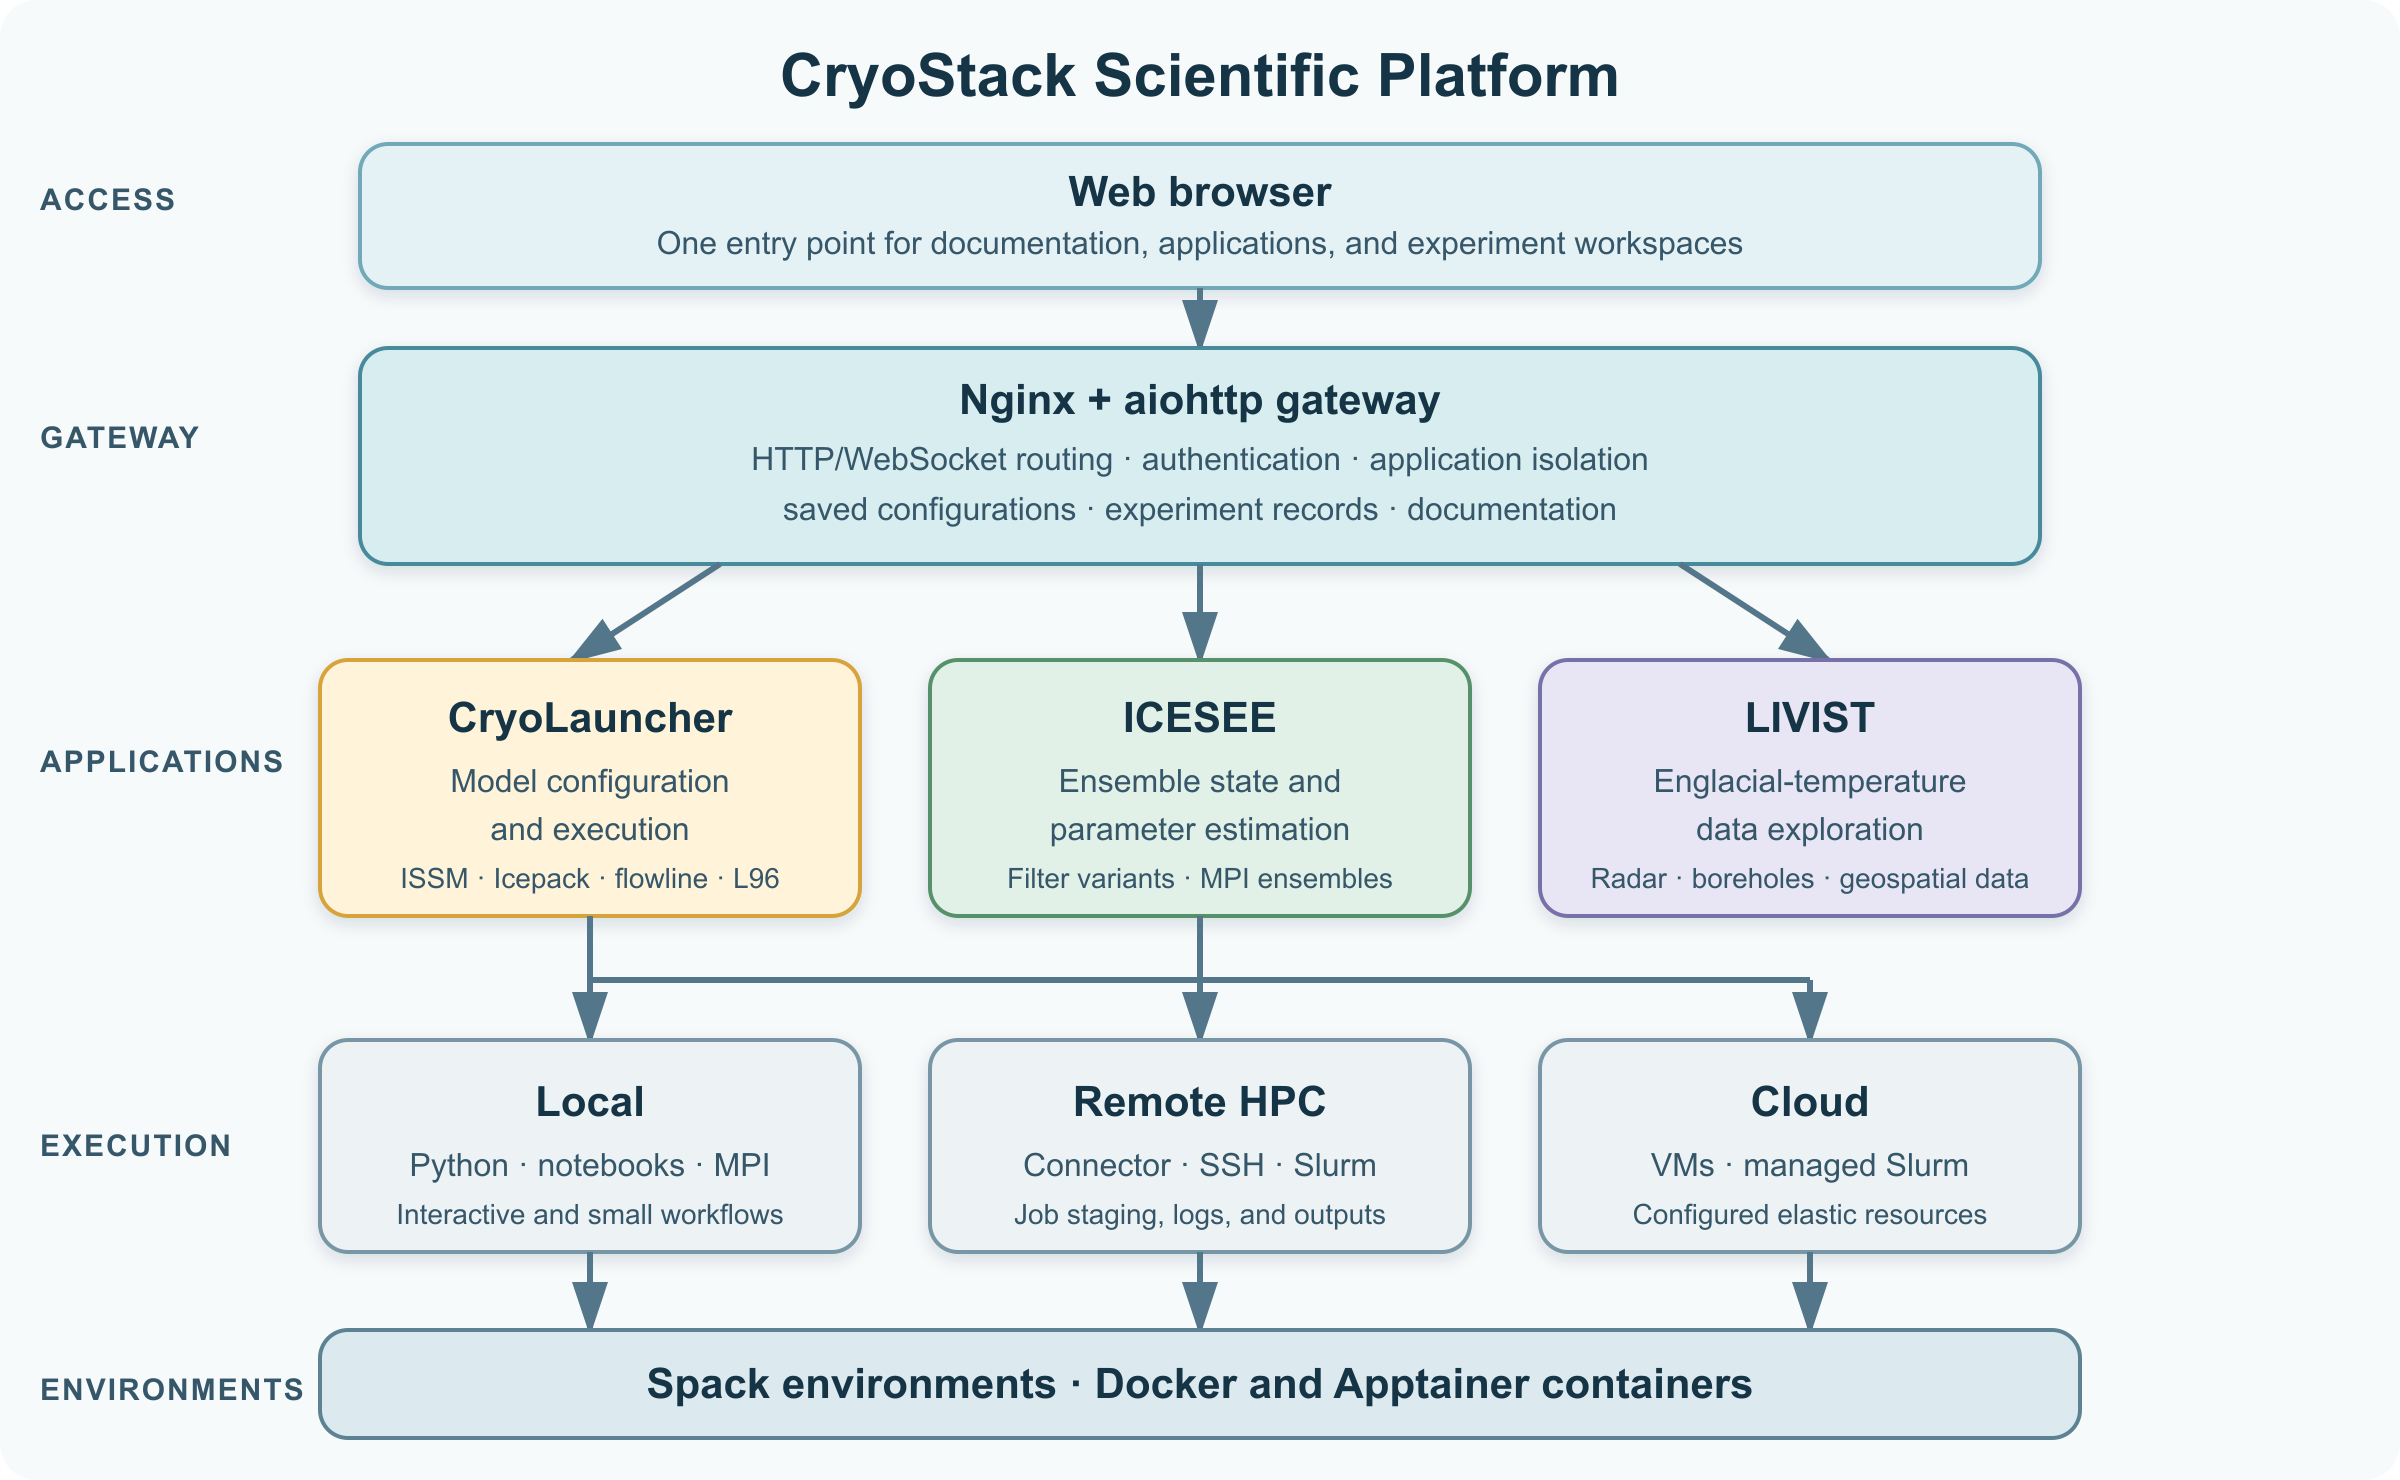
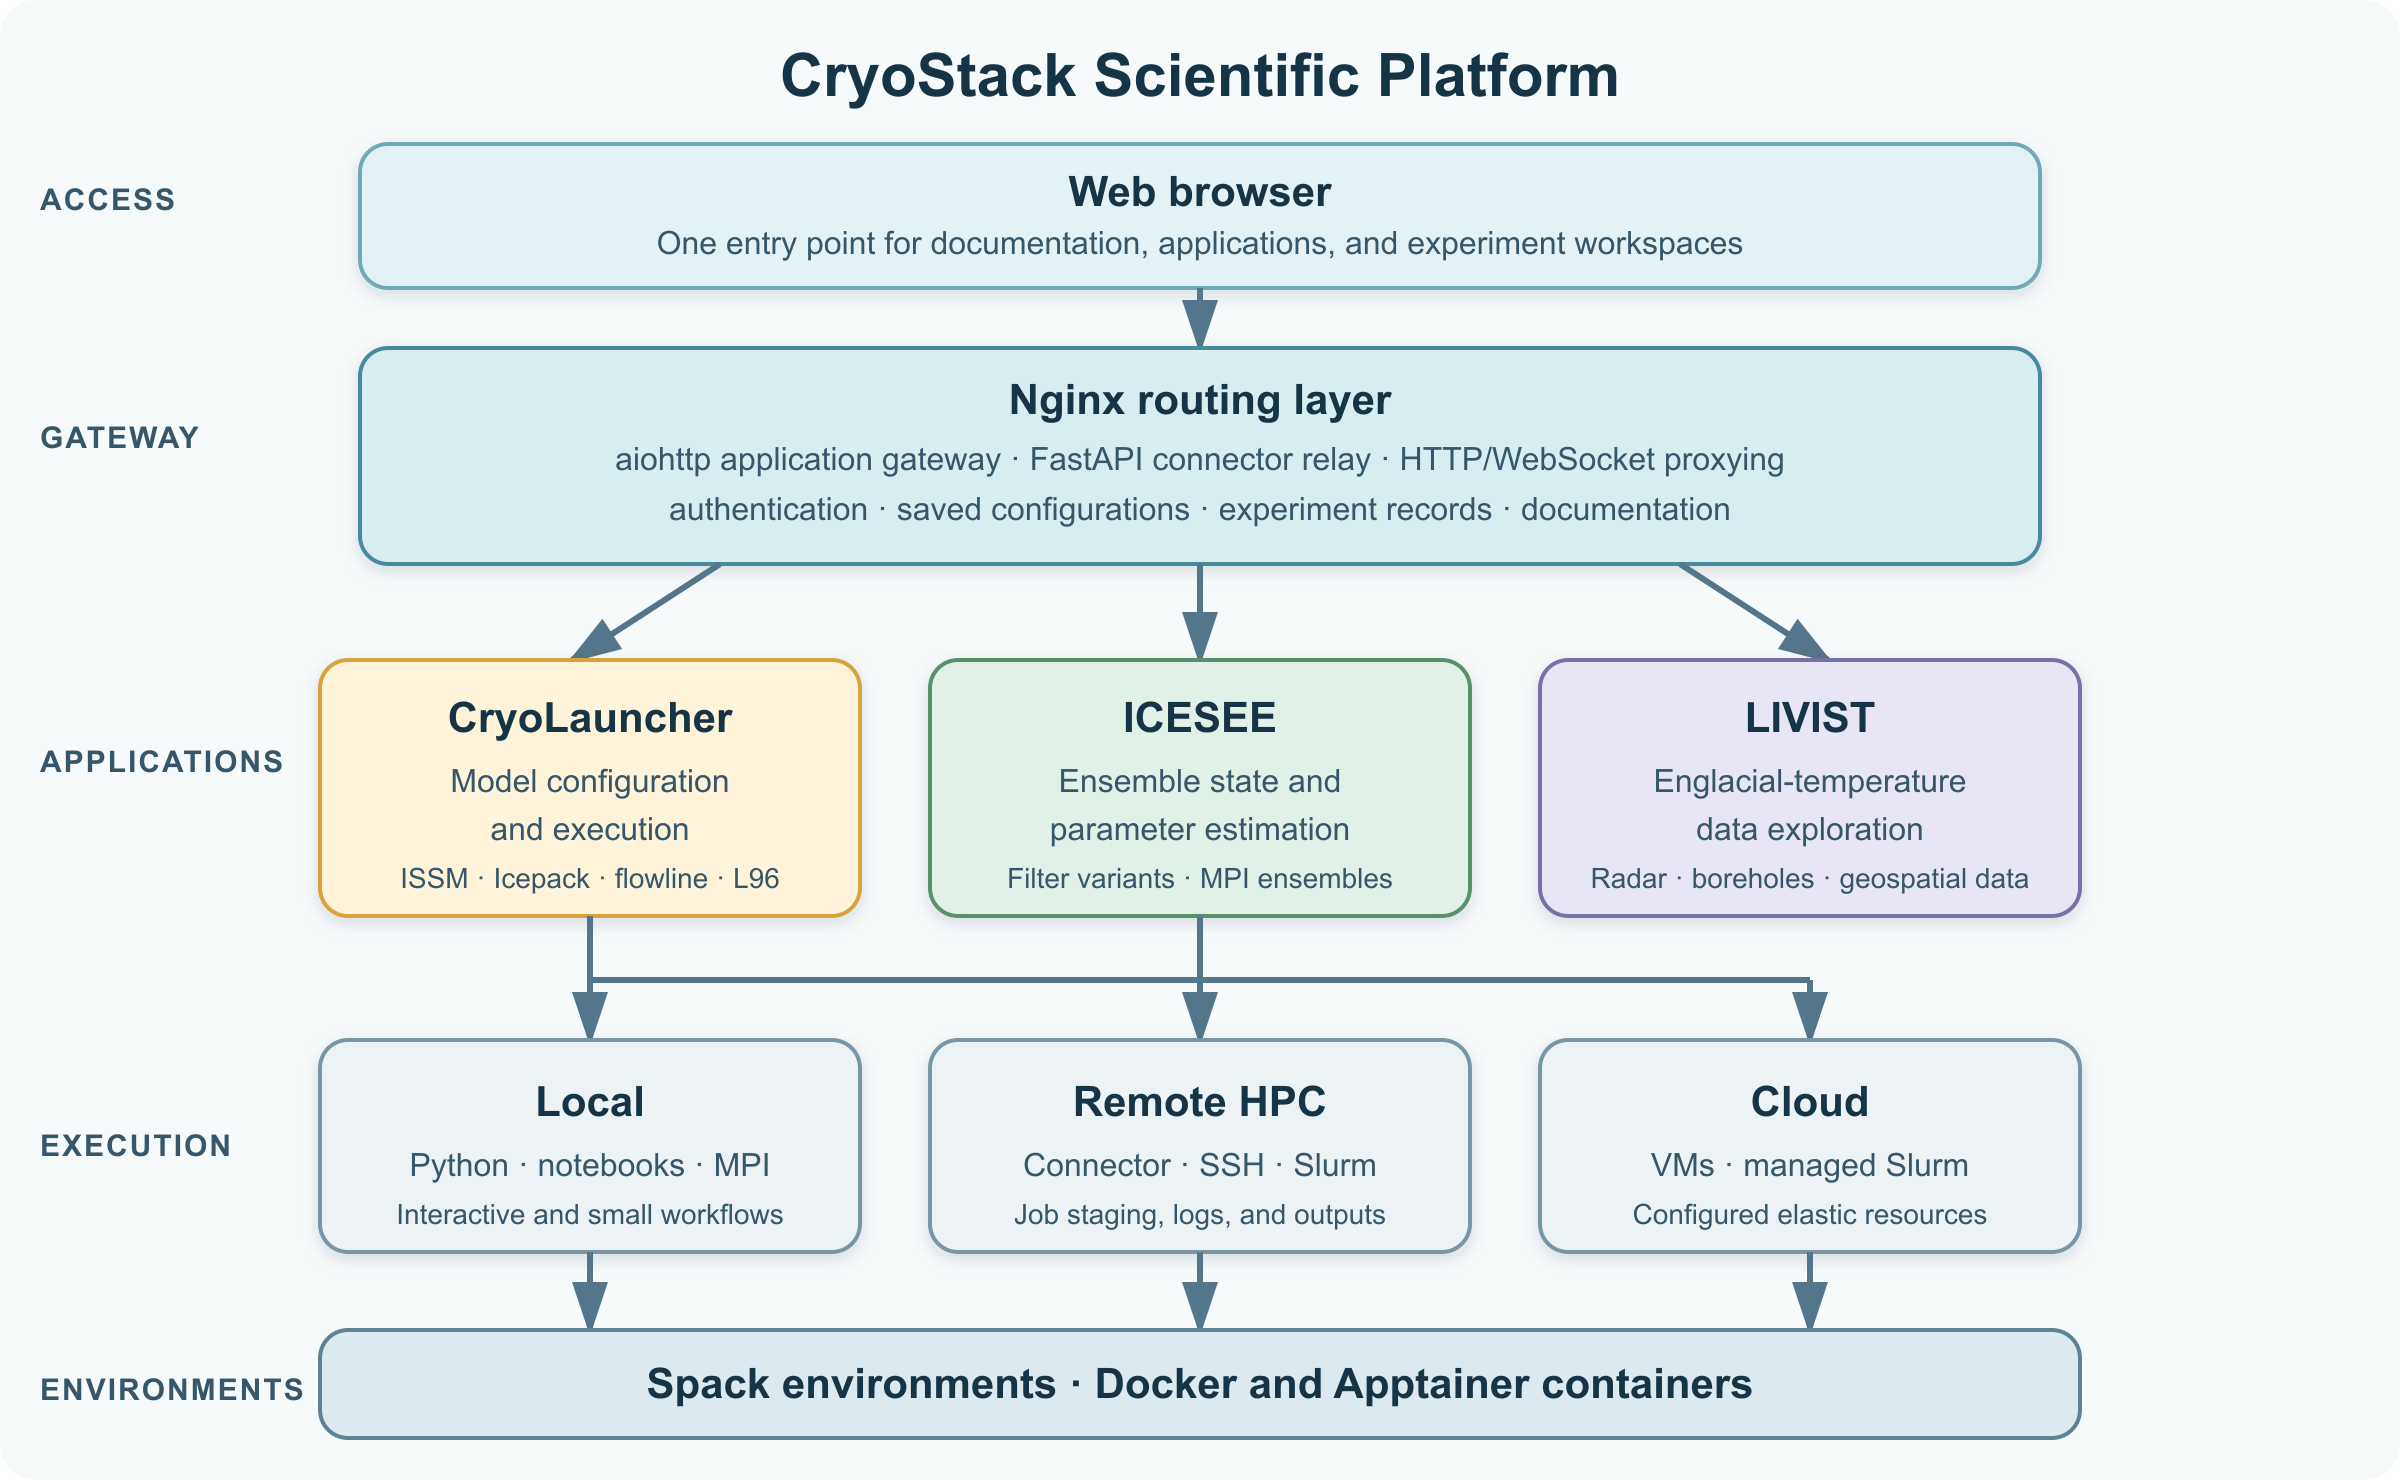
Added HPC bridge section

Changed region(s): [[0.2812, 0.2486, 0.7188, 0.373]]

diff --git a/paper/paper.md b/paper/paper.md
@@ -33,7 +33,10 @@ ice-sheet models, **ICESEE** for ensemble-based state and parameter estimation,
 and **LIVIST** for exploring Antarctic englacial-temperature products. A shared
 gateway supplies navigation, documentation, user workspaces, reusable
 configurations, experiment records, and routes to local, remote, Slurm-managed,
-and cloud execution environments.
+and cloud execution environments. A FastAPI relay and workstation connector
+bridge the browser applications to protected HPC systems without requiring an
+inbound connection from the public platform to the user's workstation or
+cluster.
 
 CryoStack grew from deployment tooling for the Ice Sheet State and Parameter
 Estimator (ICESEE) [@kyanjo2026icesee] into a broader platform for the
@@ -142,6 +145,72 @@ and Slurm operations then occur from the connector using the user's existing
 network and institutional access. The platform also includes deployment
 configurations for cloud-hosted Slurm resources.
 
+## HPC connector and command relay
+
+The HPC bridge is a shared infrastructure component used by both ICESEE and
+CryoLauncher (Figure 2). It separates scientific workflow construction in the
+hosted application from privileged network operations in the user's computing
+environment. Four processes participate in a connector-mediated run:
+
+1. The ICESEE or CryoLauncher Voilà application creates a connector session by
+   sending `POST /connector/session` and receives a random session identifier
+   and WebSocket path.
+2. Nginx routes `/connector/` HTTP and WebSocket traffic to a FastAPI relay
+   served by Uvicorn on an internal port. The relay records which connector is
+   online for each session and maintains pending command futures in memory.
+3. A connector process on the user's workstation opens an **outbound** WSS
+   connection to `/connector/ws/{session_id}`. The workstation may already be
+   connected to an institutional VPN and can reach the cluster login node using
+   the user's SSH configuration.
+4. The application sends a typed command and JSON payload to
+   `POST /connector/command/{session_id}`. The relay assigns a unique command
+   identifier and forwards the message over the matching WebSocket. The
+   connector executes the operation, returns a result carrying the same
+   identifier, and the relay resolves the waiting HTTP request.
+
+![CryoStack HPC bridge. ICESEE and CryoLauncher send session-scoped commands to a FastAPI relay. A workstation connector maintains an outbound WebSocket and performs SSH, rsync, and Slurm operations against an authorized cluster.](cryostack_hpc_bridge.png){ width=95% }
+
+**Figure 2:** Connector-mediated command and data flow between CryoStack and a
+protected HPC resource. Solid blue arrows are HTTPS/WSS control messages;
+green arrows are SSH and rsync operations initiated from the workstation.
+
+The connector dispatch layer currently supports host and SSH tests, SSH command
+execution, rsync upload and download, archive staging and retrieval, Slurm
+submission, and SSH-key bootstrap. Submission helpers write the application
+configuration and generated batch script to a run directory, invoke `sbatch`,
+parse the returned job identifier, and use `squeue`, `sacct`, `scancel`, and log
+tailing for lifecycle management. ICESEE and CryoLauncher call the same relay
+client and remote-runner abstractions, but supply application-specific staging
+rules and launch commands. This avoids duplicating cluster connectivity code
+across scientific interfaces.
+
+FastAPI is used for the public command relay because it provides typed request
+models, asynchronous WebSocket handling, and HTTP error responses for offline
+connectors and timeouts. The repository also contains a local FastAPI service
+mode with typed endpoints for reachability checks, SSH, rsync, Slurm, and log
+tailing. The packaged desktop connector instead uses the outbound WebSocket
+client, which is better suited to workstations behind firewalls and network
+address translation.
+
+The relay transfers commands and results but does not perform SSH itself. SSH
+private keys remain on the workstation, and the connector invokes the local
+OpenSSH and rsync clients with key-only batch operation. Consequently, the
+public CryoStack host does not require direct network reachability to the HPC
+login node. This design does not bypass institutional controls: users must
+possess a valid cluster account, satisfy VPN and multifactor requirements where
+applicable, and authorize the connector key according to site policy.
+
+Key-only authentication is the normal execution path. CryoStack also contains
+an optional one-time bootstrap operation that sends a user-entered cluster
+password in the session command payload so that the workstation connector can
+install its public key. The interface does not persist the password and clears
+the field after use, but the secret necessarily traverses the hosted
+application and relay before reaching the connector. Deployments whose policy
+prohibits this flow should disable bootstrap and require users to register the
+connector's public key through the institution's account portal. Removing
+password-bearing relay commands in favor of portal-based enrollment or a
+dedicated secret-exchange design is part of production hardening.
+
 Two complementary environment strategies support portability. ICESEE-Spack
 uses Spack [@gamblin2015spack] to resolve source builds against site-specific
 compilers, MPI implementations, and system libraries. This is useful on HPC
@@ -157,13 +226,15 @@ A typical remote experiment proceeds as follows:
 
 1. The user selects CryoLauncher or ICESEE and edits a configuration in the
    browser.
-2. CryoStack validates and snapshots the configuration and associates it with
-   an experiment record.
-3. The execution layer stages inputs and either runs locally or submits the job
-   to a remote Slurm backend using a Spack or container environment.
-4. Job state and logs are returned to the application while scheduler and path
-   metadata are recorded in the workspace.
-5. The user inspects or downloads outputs and can reuse the saved configuration
+2. CryoStack validates and snapshots the configuration, associates it with an
+   experiment record, and creates or reuses a connector session.
+3. The FastAPI relay correlates an application command with the outbound
+   connector WebSocket.
+4. The connector stages inputs over rsync and submits the job to Slurm using a
+   Spack or container environment.
+5. Scheduler state, logs, and output metadata return through the connector and
+   relay and are recorded in the workspace.
+6. The user inspects or downloads outputs and can reuse the saved configuration
    for a subsequent experiment.
 
 # Research and Educational Use
@@ -197,10 +268,16 @@ suitable for browser-host execution. Remote use still requires an authorized
 account, network access such as a VPN where applicable, and a compatible
 software environment on the target system. At present, backend and
 application adapters contain platform-specific configuration that should be
-generalized before broad multi-institutional deployment. Planned work includes
-formal release archives, expanded automated testing across backends, richer
-machine-readable provenance, additional community applications, and clearer
-administrator interfaces for registering resources.
+generalized before broad multi-institutional deployment. The present relay
+keeps sessions and pending commands in a single process, so service restarts
+discard that state and horizontal scaling requires a shared session store.
+Production hardening must also bind connector sessions to authenticated users,
+replace generic shell execution with an explicit command allowlist, validate
+remote paths and scheduler parameters, and add auditable per-command policy.
+Planned work additionally includes formal release archives, expanded automated
+testing across backends, richer machine-readable provenance, additional
+community applications, and clearer administrator interfaces for registering
+resources.
 
 # Acknowledgements
 
